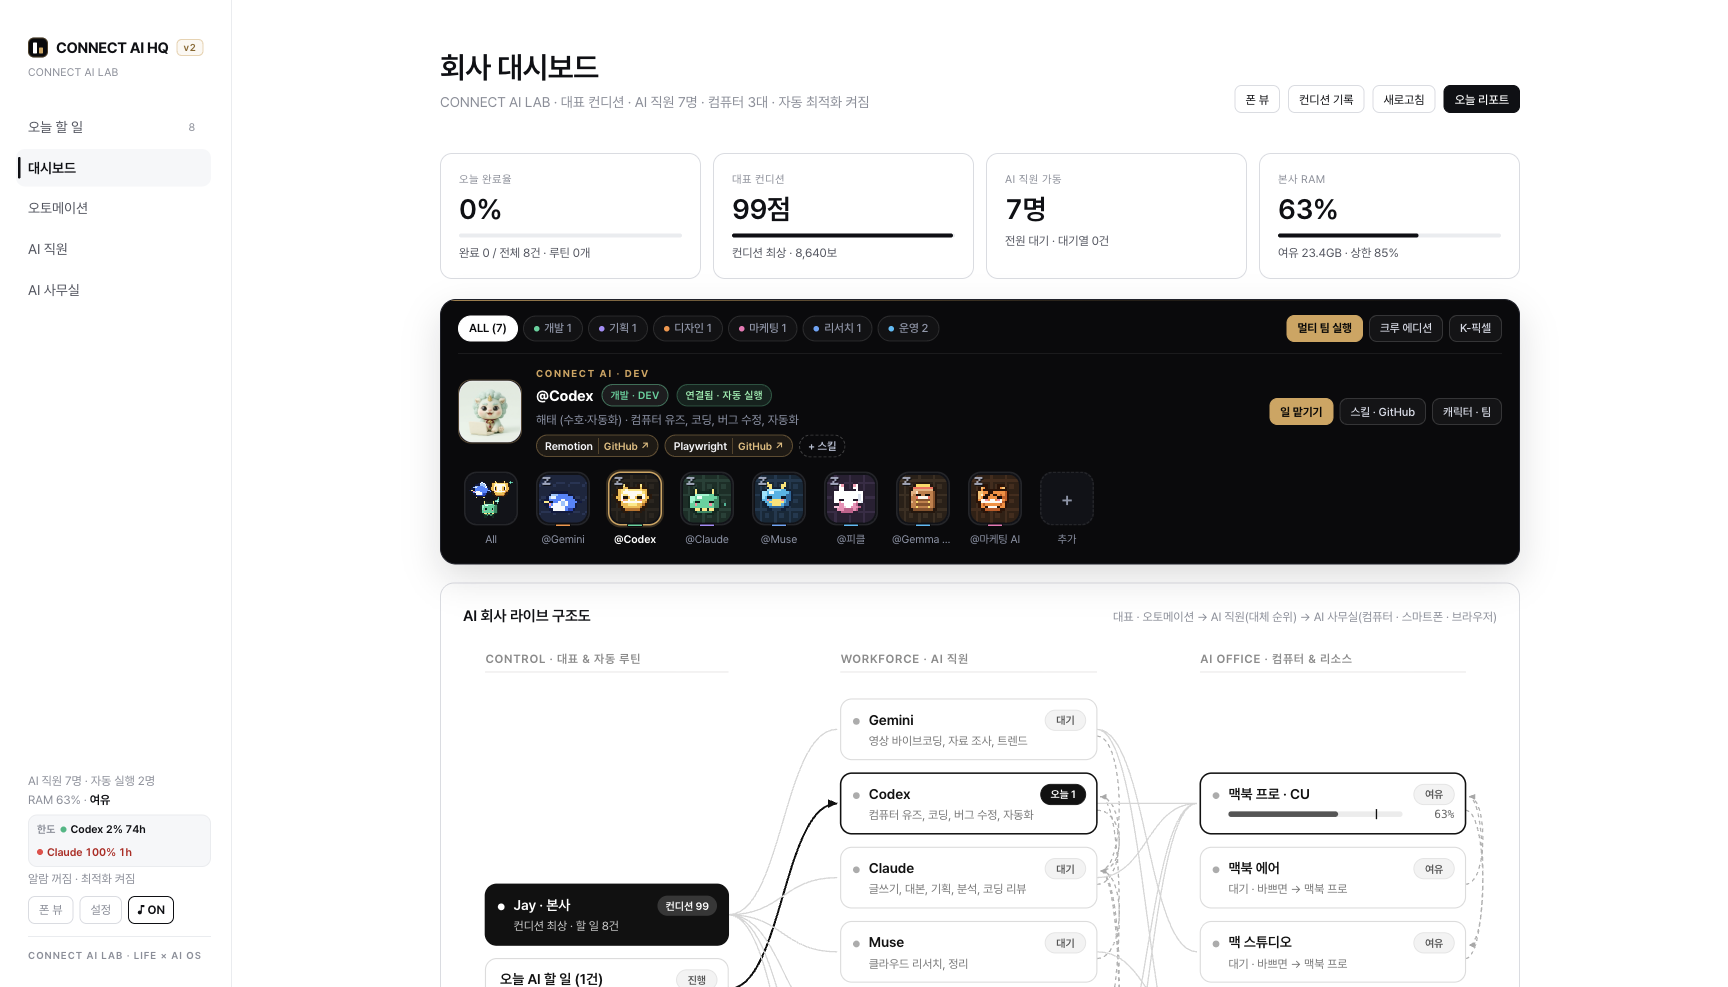
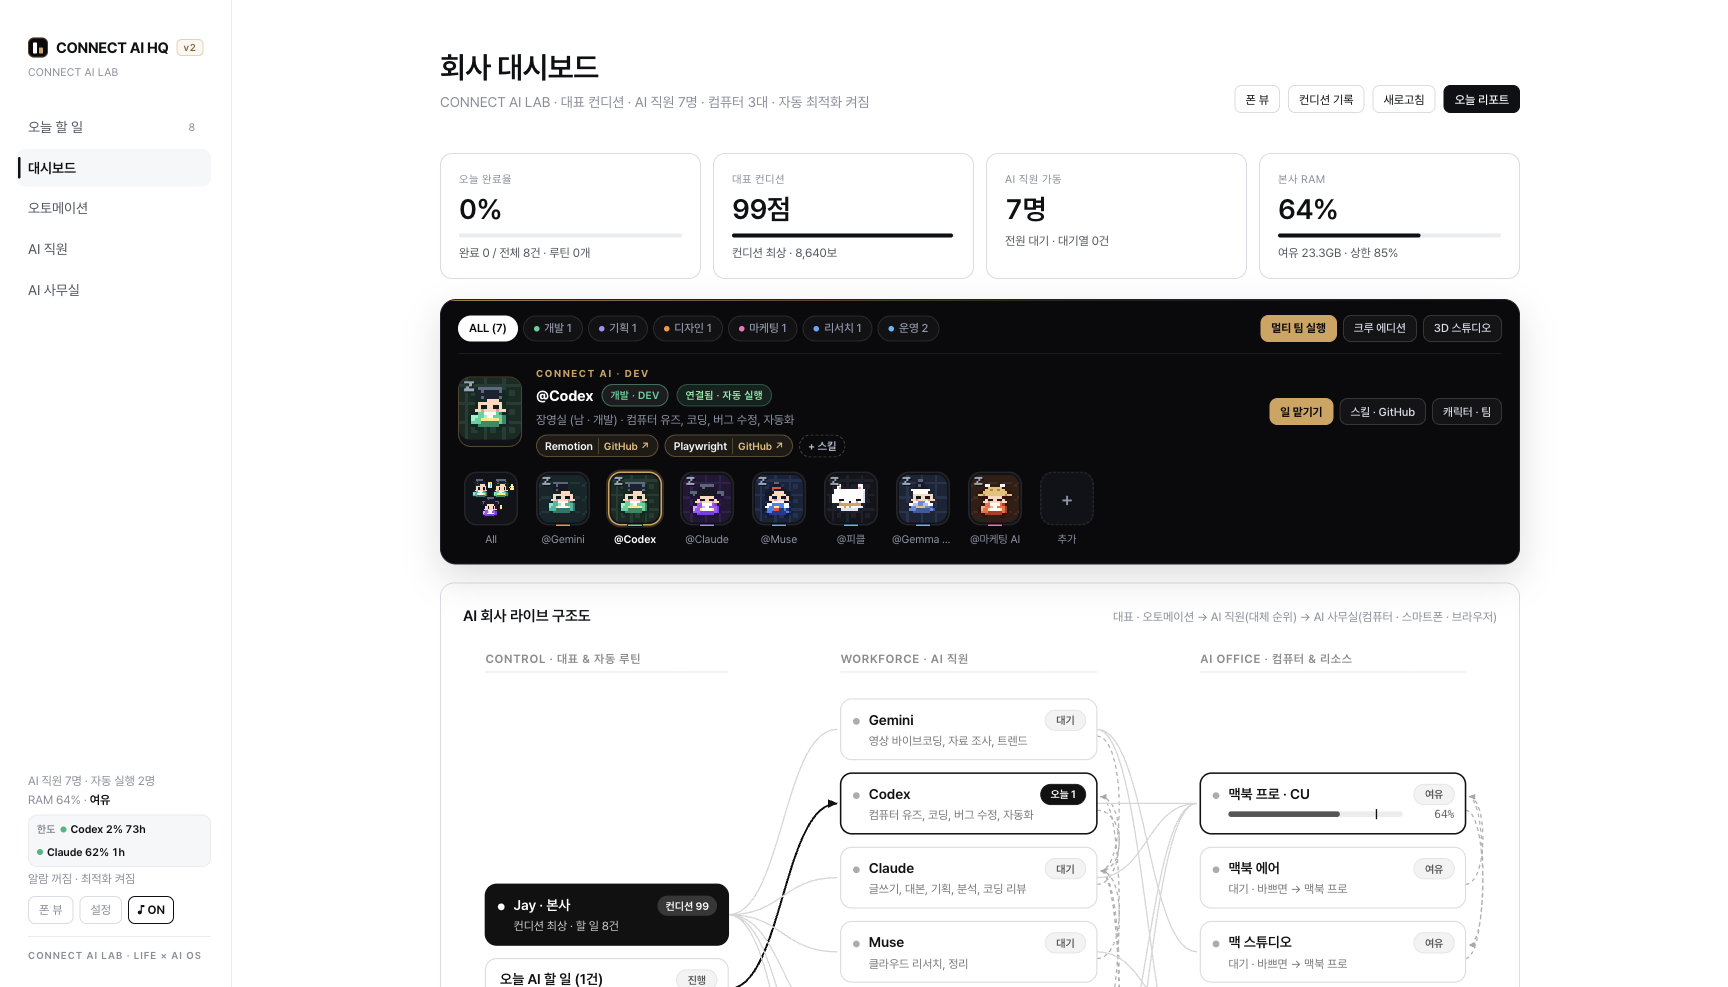
feat(pixel-crew): default all staff & README showcase to 16-bit K-Heritage Pixel Crew (21 sprites + Somi)

diff --git a/public/app.js b/public/app.js
@@ -4627,8 +4627,8 @@ function openAddEmployee(opts = {}) {
   let pickedModel = '';
   let pickedEffort = '';
   let pickedMac = d.settings?.mainMachine || machines.find((m) => m.isThisMac)?.id || machines[0]?.id || '';
-  let pickedPack = cfg.pack || (d.employees.some((e) => window.PixelCrew?.isJoseonKey(e.avatar)) ? 'joseon' : 'k-crew');
-  let pickedAvatar = cfg.avatar || (pickedPack === 'joseon' ? 'jangyeongsil' : 'haetae');
+  let pickedPack = cfg.pack || 'joseon';
+  let pickedAvatar = cfg.avatar || 'jangyeongsil';
   let pickedTeam = cfg.team || 'dev';
   let customImg = '';
   let avOpen = false;

diff --git a/README.md b/README.md
@@ -22,7 +22,7 @@
   <a href="#-1분-시작하기">1분 시작하기</a> &nbsp;·&nbsp;
   <a href="#-제품-화면-미리보기">화면 미리보기</a> &nbsp;·&nbsp;
   <a href="#-핵심-기능-하이라이트">핵심 기능</a> &nbsp;·&nbsp;
-  <a href="#-connect-ai-lab-k-heritage-크루">K-Heritage 크루</a> &nbsp;·&nbsp;
+  <a href="#-connect-ai-lab--16-bit-k-heritage-픽셀-크루-21종">16-bit 픽셀 크루</a> &nbsp;·&nbsp;
   <a href="#-안전-규칙--보안">안전 규칙</a> &nbsp;·&nbsp;
   <a href="#-connect-ai-lab--ai-mentor-jay">브랜드</a> &nbsp;·&nbsp;
   <a href="CHANGELOG.md">Changelog</a>
@@ -160,21 +160,21 @@ flowchart LR
 
 ---
 
-## 🎨 CONNECT AI LAB · K-Heritage 크루
+## 🎨 CONNECT AI LAB · 16-bit K-Heritage 픽셀 크루 (21종)
 
-전통 한국 수호신 모티브의 **K-수호 크루 8종** + **모던 랩 크루 8종** + **16-bit K-Heritage 픽셀 에디션 21종 (마스코트 사모예드 `솜이` 포함)** 을 기본 제공합니다. 직원마다 호칭(이름) 지정과 `⌘V` 이미지/GIF 직접 업로드도 지원합니다.
+한국 전통 인물 20인과 공식 마스코트 사모예드 **솜이**로 구성된 **20×20 16-bit K-Heritage 픽셀 에디션 (21종)** 이 기본 탑재됩니다. 일할 땐 초록불 + 작업 애니메이션, 쉴 땐 `Z` 수면 모션으로 살아 움직이며, 직원별 호칭(이름) 지정과 `⌘V` 이미지/GIF 직접 업로드도 지원합니다.
 
 <div align="center">
 <table>
   <tr>
-    <td align="center" width="12.5%"><img src="public/mascots/haetae.jpg" width="76" alt="해태" /><br /><sub><b>해태</b><br />수호·자동화</sub></td>
-    <td align="center" width="12.5%"><img src="public/mascots/dokkaebi.jpg" width="76" alt="도깨비" /><br /><sub><b>도깨비</b><br />기획·전략</sub></td>
-    <td align="center" width="12.5%"><img src="public/mascots/kkachi.jpg" width="76" alt="까치" /><br /><sub><b>까치</b><br />리서치·브리핑</sub></td>
-    <td align="center" width="12.5%"><img src="public/mascots/horangi.jpg" width="76" alt="호랑이" /><br /><sub><b>민화 호랑이</b><br />마케팅·훅</sub></td>
-    <td align="center" width="12.5%"><img src="public/mascots/cheongnyong.jpg" width="76" alt="청룡" /><br /><sub><b>청룡</b><br />영상·3D</sub></td>
-    <td align="center" width="12.5%"><img src="public/mascots/dalto.jpg" width="76" alt="달토끼" /><br /><sub><b>달토끼</b><br />운영·모바일</sub></td>
-    <td align="center" width="12.5%"><img src="public/mascots/jangseung.jpg" width="76" alt="장승" /><br /><sub><b>꼬마 장승</b><br />보안·게이트</sub></td>
-    <td align="center" width="12.5%"><img src="public/mascots/bonghwang.jpg" width="76" alt="봉황" /><br /><sub><b>아기 봉황</b><br />비전·디자인</sub></td>
+    <td align="center" width="12.5%"><img src="docs/pixel/som.svg" width="76" alt="솜이 (공식 마스코트)" /><br /><sub><b>솜이</b><br />공식 마스코트</sub></td>
+    <td align="center" width="12.5%"><img src="docs/pixel/sejong.svg" width="76" alt="세종대왕" /><br /><sub><b>세종대왕</b><br />본사 총괄</sub></td>
+    <td align="center" width="12.5%"><img src="docs/pixel/jangyeongsil.svg" width="76" alt="장영실" /><br /><sub><b>장영실</b><br />개발·자동화</sub></td>
+    <td align="center" width="12.5%"><img src="docs/pixel/seonbi.svg" width="76" alt="집현전 선비" /><br /><sub><b>집현전 선비</b><br />기획·글쓰기</sub></td>
+    <td align="center" width="12.5%"><img src="docs/pixel/saimdang.svg" width="76" alt="신사임당" /><br /><sub><b>신사임당</b><br />브랜드·디자인</sub></td>
+    <td align="center" width="12.5%"><img src="docs/pixel/bobusang.svg" width="76" alt="보부상" /><br /><sub><b>보부상</b><br />마케팅·SNS</sub></td>
+    <td align="center" width="12.5%"><img src="docs/pixel/damo.svg" width="76" alt="다모 수사관" /><br /><sub><b>다모 수사관</b><br />리서치·QA</sub></td>
+    <td align="center" width="12.5%"><img src="docs/pixel/heojun.svg" width="76" alt="어의 허준" /><br /><sub><b>어의 허준</b><br />대표 헬스</sub></td>
   </tr>
 </table>
 </div>

diff --git a/README.en.md b/README.en.md
@@ -107,19 +107,19 @@ Press Enter to auto-delegate (`✦ 자동 배분`) to connected runnable AI empl
 - **Per-Employee GitHub Skills**: Attach any GitHub repo or catalog tool (`Remotion`, `Hyperframes`, `Blender`, `Playwright`, `Firecrawl`, `Reverse Business`) to specific AI employees for automatic task routing, prompt injection, and MCP discovery.
 - **Live 5-Hour Quota Bar & Auto-Failover**: Bounded-tail local JSONL usage scans for Claude & Codex, live sidebar quota pills, automatic 429 cooldowns, backup AI handoff, 180s `hang-watchdog`, macOS `caffeinate`, and 85% RAM backpressure protection.
 - **Founder Condition (Local-Only Health)**: Private ingestion (`POST /api/health/ingest` + token auth) from Apple Health / Android Health Connect with zero external transmission and strict exclusion from prompts, reports, and blueprints.
-- **K-Heritage & Modern Crew Studio**: 8 Korean Traditional K-Suho Crew + 8 Modern Lab Crew + 21 16-bit K-Heritage Pixel Crew (including Jay's Samoyed mascot `Somi`), plus custom nicknames and `Cmd+V` image/GIF uploads.
+- **16-bit K-Heritage Pixel Crew (21 Characters)**: Ships by default with 20 Korean historical pixel teammates + Jay's Samoyed mascot **Somi** (`20×20` animated pixel SVGs with live working/idle states), plus custom nicknames and `Cmd+V` image/GIF uploads.
 
 <div align="center">
 <table>
   <tr>
-    <td align="center" width="12.5%"><img src="public/mascots/haetae.jpg" width="76" alt="Haetae" /><br /><sub><b>Haetae</b></sub></td>
-    <td align="center" width="12.5%"><img src="public/mascots/dokkaebi.jpg" width="76" alt="Dokkaebi" /><br /><sub><b>Dokkaebi</b></sub></td>
-    <td align="center" width="12.5%"><img src="public/mascots/kkachi.jpg" width="76" alt="Kkachi" /><br /><sub><b>Kkachi</b></sub></td>
-    <td align="center" width="12.5%"><img src="public/mascots/horangi.jpg" width="76" alt="Horangi" /><br /><sub><b>Horangi</b></sub></td>
-    <td align="center" width="12.5%"><img src="public/mascots/cheongnyong.jpg" width="76" alt="Cheongnyong" /><br /><sub><b>Cheongnyong</b></sub></td>
-    <td align="center" width="12.5%"><img src="public/mascots/dalto.jpg" width="76" alt="Dalto" /><br /><sub><b>Dalto</b></sub></td>
-    <td align="center" width="12.5%"><img src="public/mascots/jangseung.jpg" width="76" alt="Jangseung" /><br /><sub><b>Jangseung</b></sub></td>
-    <td align="center" width="12.5%"><img src="public/mascots/bonghwang.jpg" width="76" alt="Bonghwang" /><br /><sub><b>Bonghwang</b></sub></td>
+    <td align="center" width="12.5%"><img src="docs/pixel/som.svg" width="76" alt="Somi" /><br /><sub><b>Somi</b><br />Mascot</sub></td>
+    <td align="center" width="12.5%"><img src="docs/pixel/sejong.svg" width="76" alt="King Sejong" /><br /><sub><b>Sejong</b><br />Executive</sub></td>
+    <td align="center" width="12.5%"><img src="docs/pixel/jangyeongsil.svg" width="76" alt="Jang Yeong-sil" /><br /><sub><b>Yeong-sil</b><br />Engineering</sub></td>
+    <td align="center" width="12.5%"><img src="docs/pixel/seonbi.svg" width="76" alt="Seonbi" /><br /><sub><b>Seonbi</b><br />Planning</sub></td>
+    <td align="center" width="12.5%"><img src="docs/pixel/saimdang.svg" width="76" alt="Shin Saimdang" /><br /><sub><b>Saimdang</b><br />Design</sub></td>
+    <td align="center" width="12.5%"><img src="docs/pixel/bobusang.svg" width="76" alt="Bobusang" /><br /><sub><b>Bobusang</b><br />Marketing</sub></td>
+    <td align="center" width="12.5%"><img src="docs/pixel/damo.svg" width="76" alt="Damo" /><br /><sub><b>Damo</b><br />Research · QA</sub></td>
+    <td align="center" width="12.5%"><img src="docs/pixel/heojun.svg" width="76" alt="Heo Jun" /><br /><sub><b>Heo Jun</b><br />Health</sub></td>
   </tr>
 </table>
 </div>
